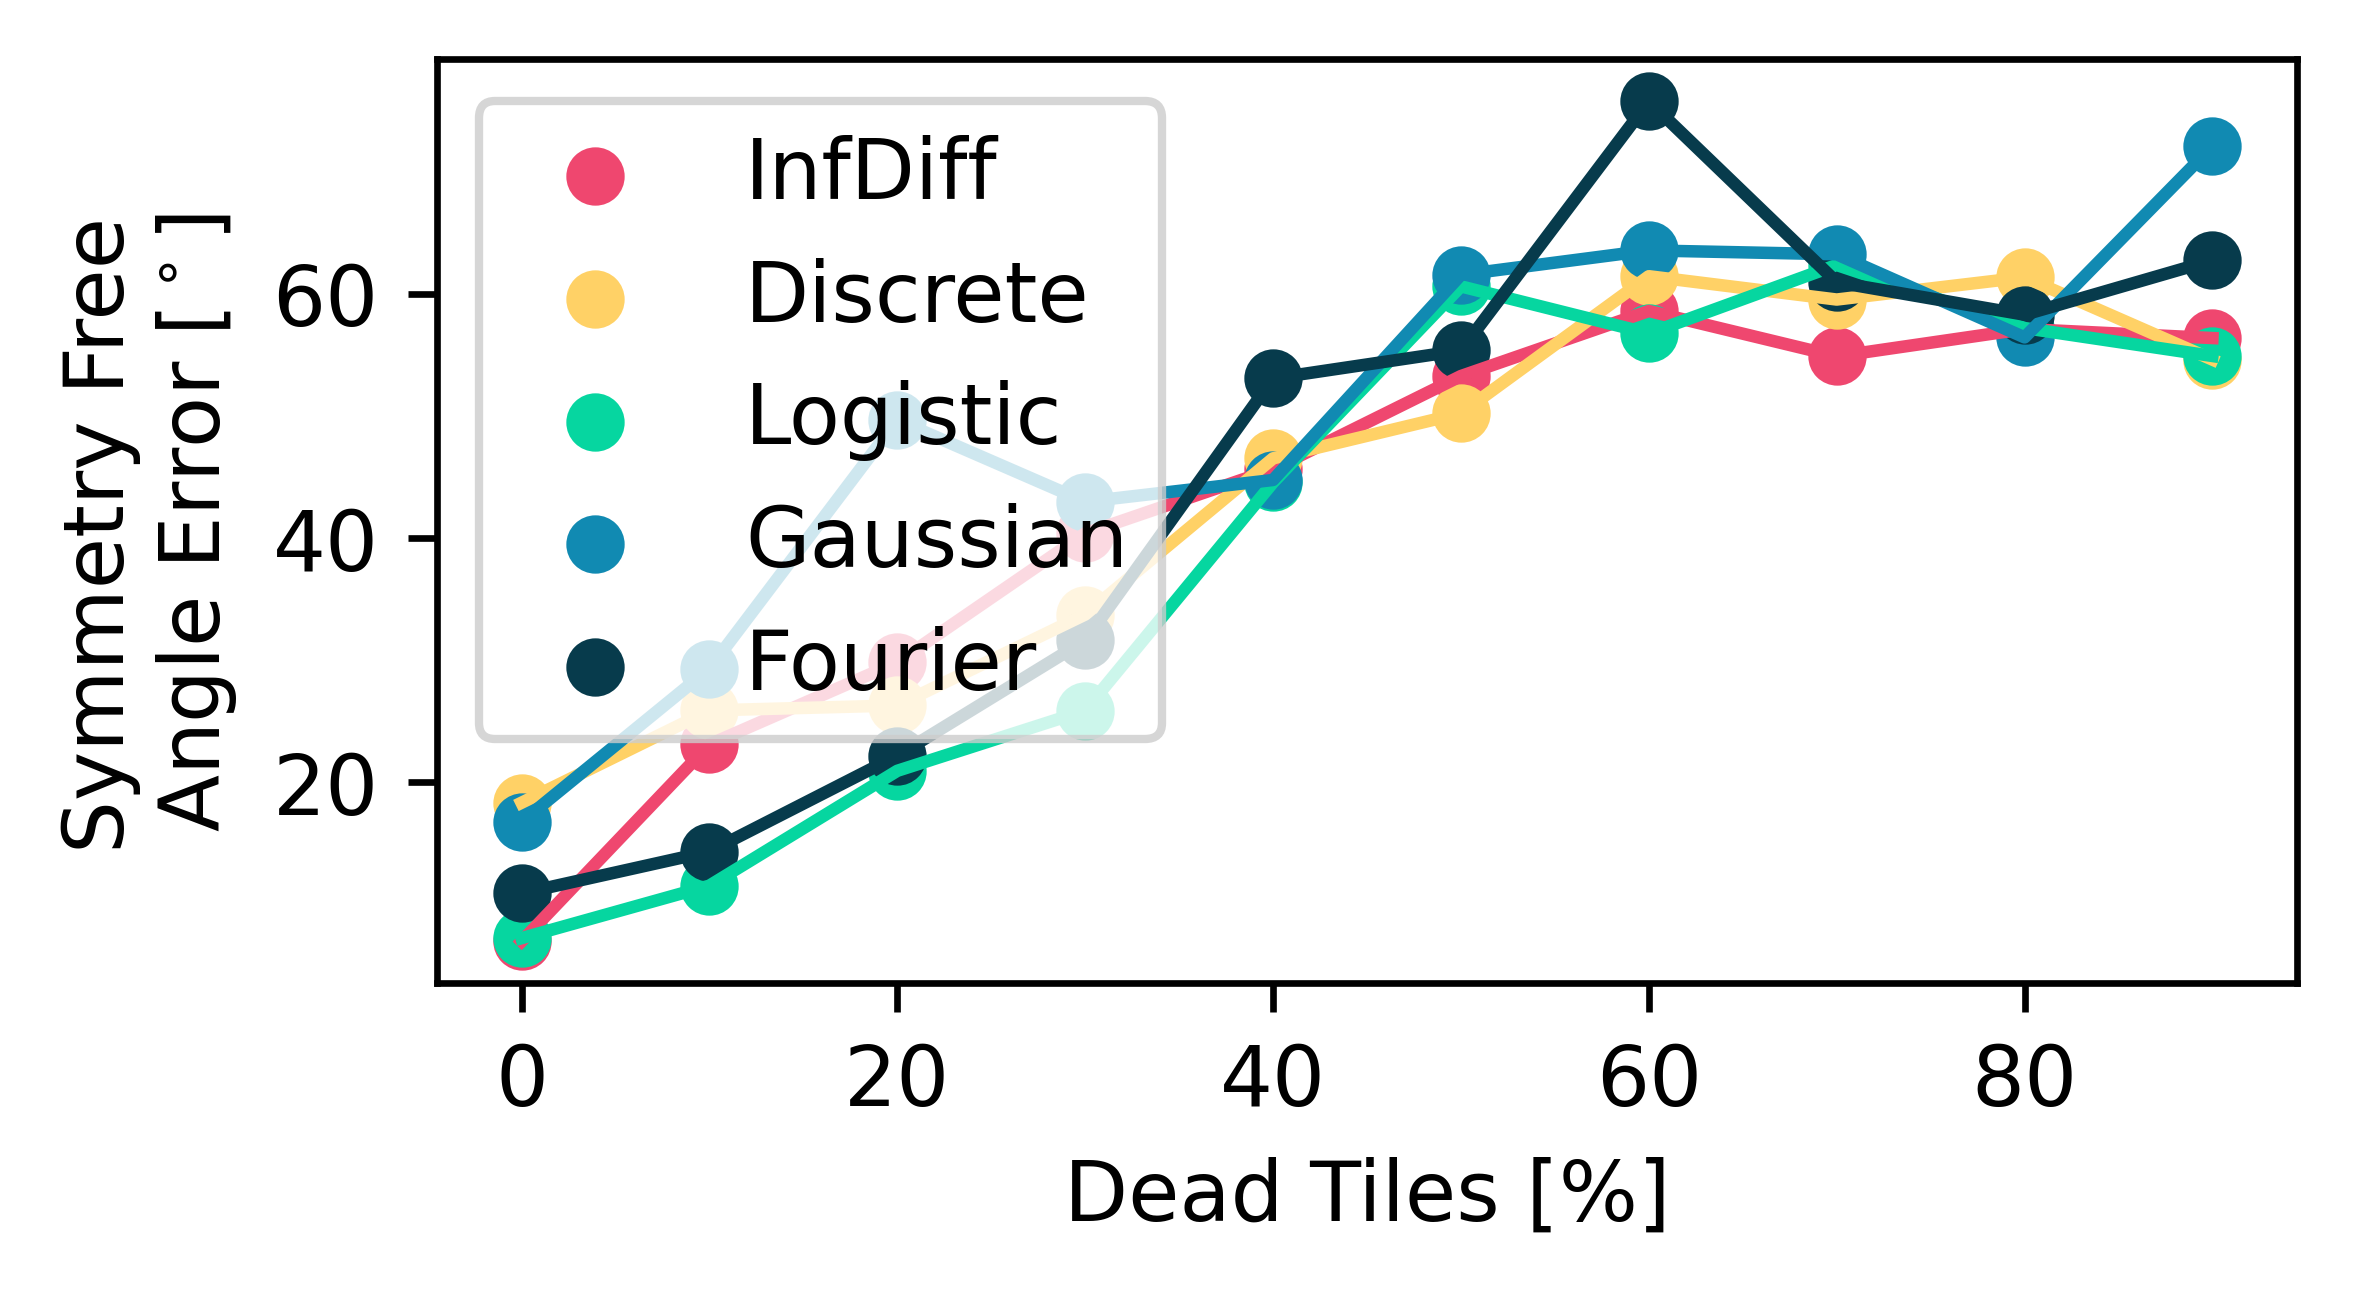
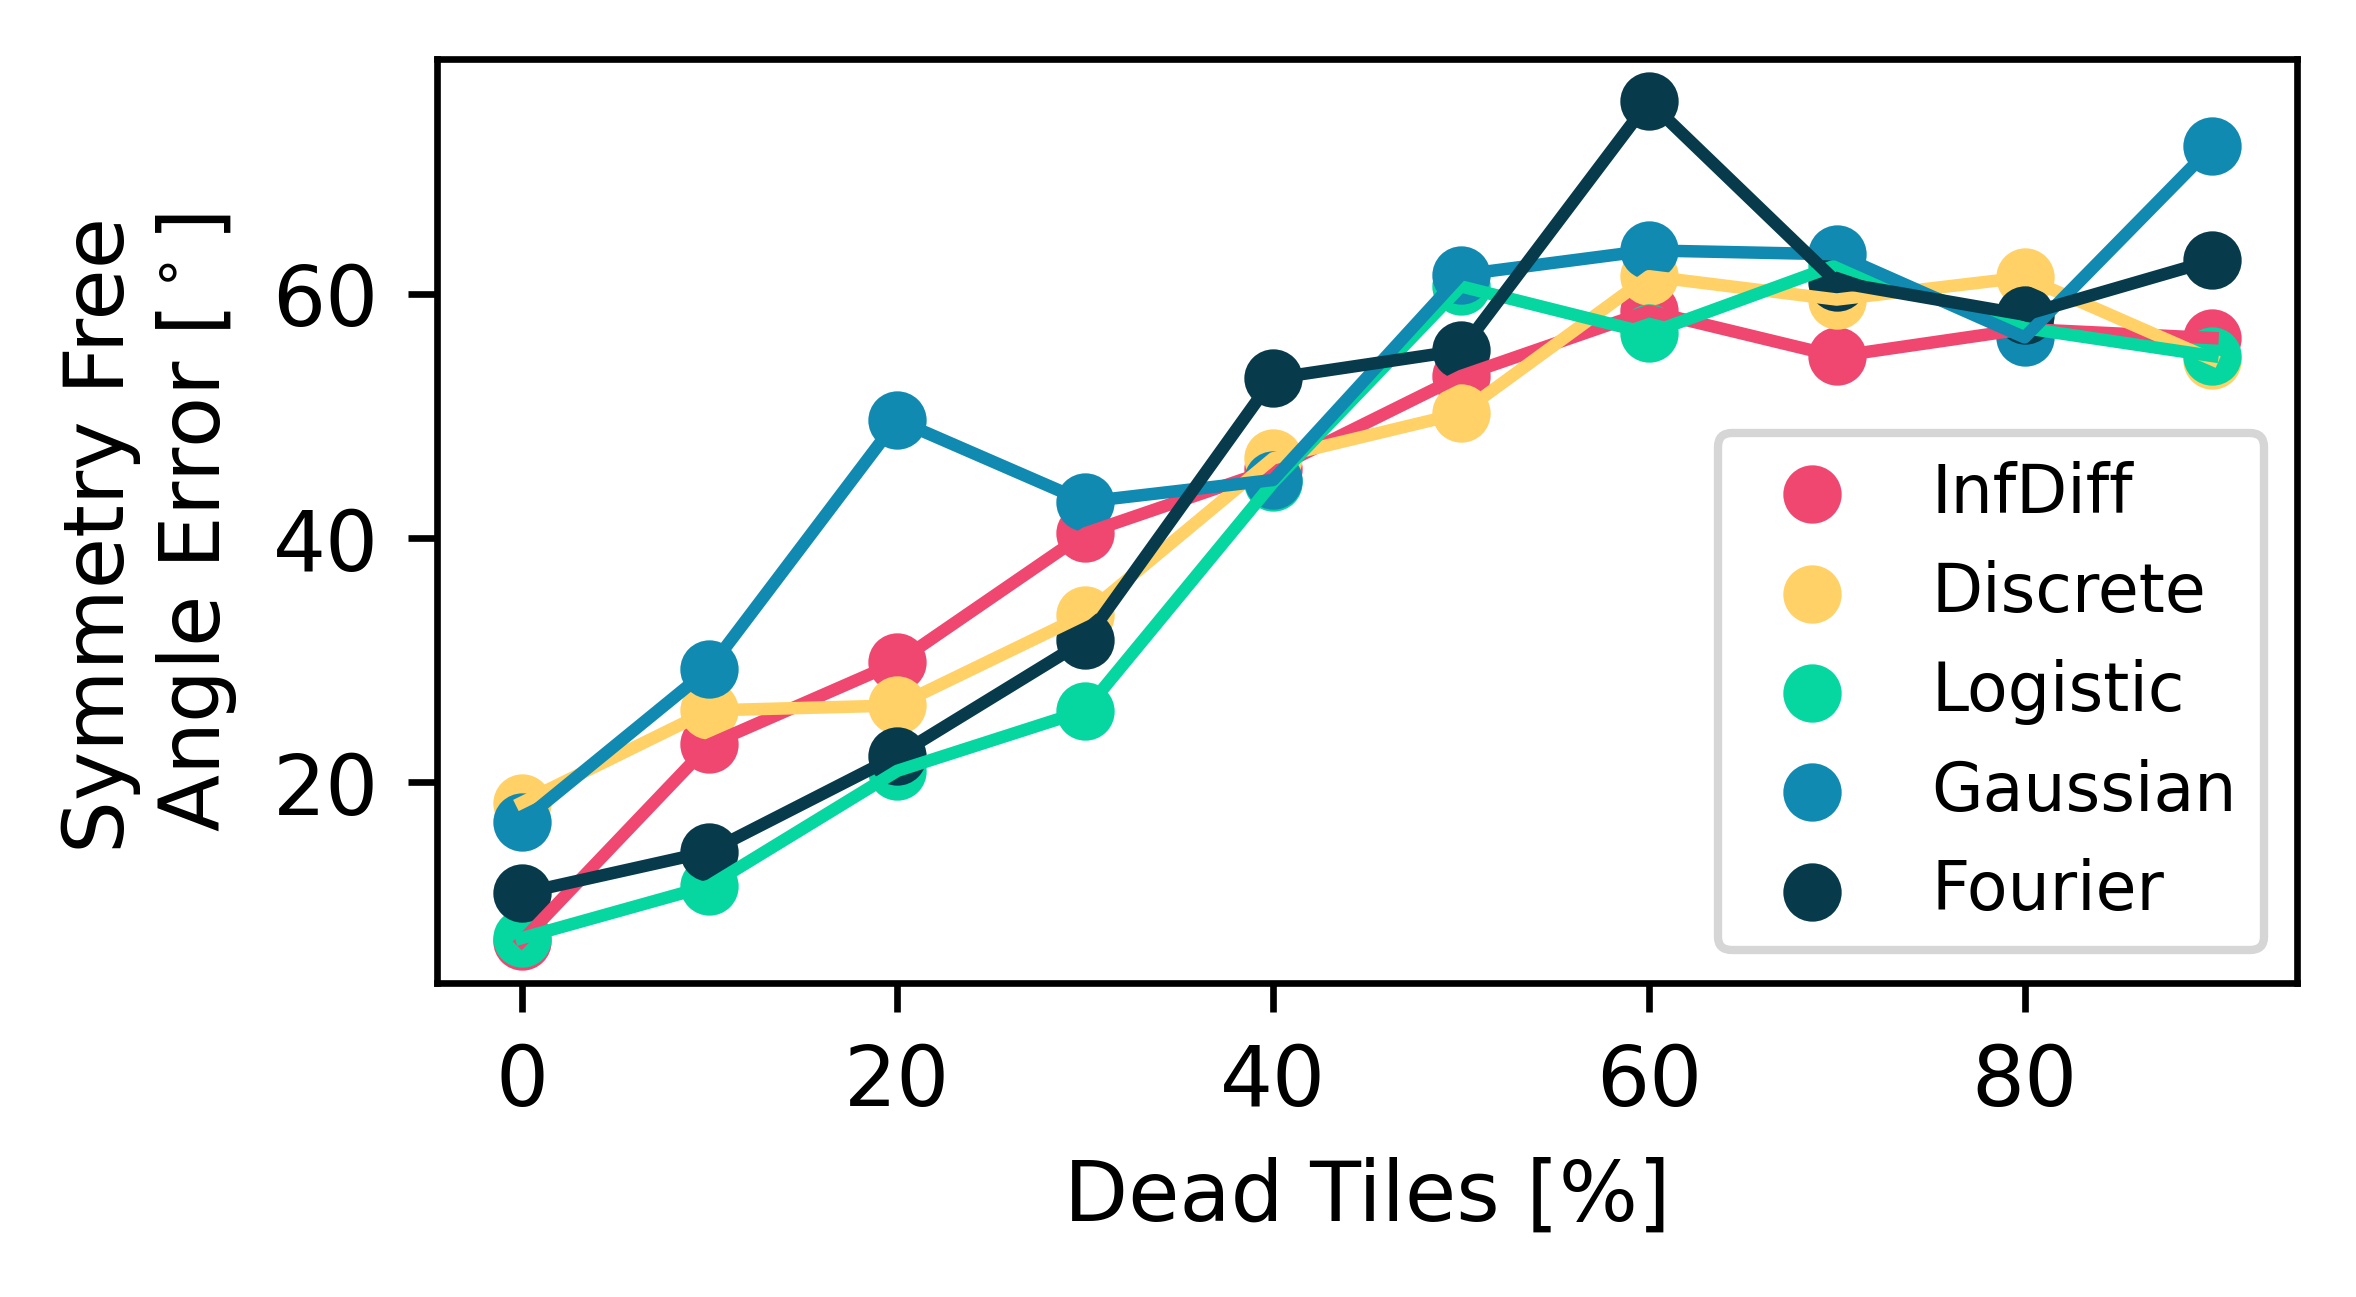
minor in figs

Changed region(s): [[0.1859, 0.0617, 0.4958, 0.586], [0.7126, 0.3084, 0.9605, 0.7402]]

diff --git a/Media/Exp_FaultTolerance_Visuals.py b/Media/Exp_FaultTolerance_Visuals.py
@@ -73,7 +73,7 @@ def resultant_error():
             #plt.plot(X, upper_bound, linestyle='--', color=pallette[i], alpha=0.5)
             #plt.plot(X, lower_bound, linestyle='--', color=pallette[i], alpha=0.5)    
         
-        plt.legend()
+        plt.legend(fontsize = 8)
         plt.xlabel('Dead Tiles [%]')
         plt.ylabel(ylabel)
 
